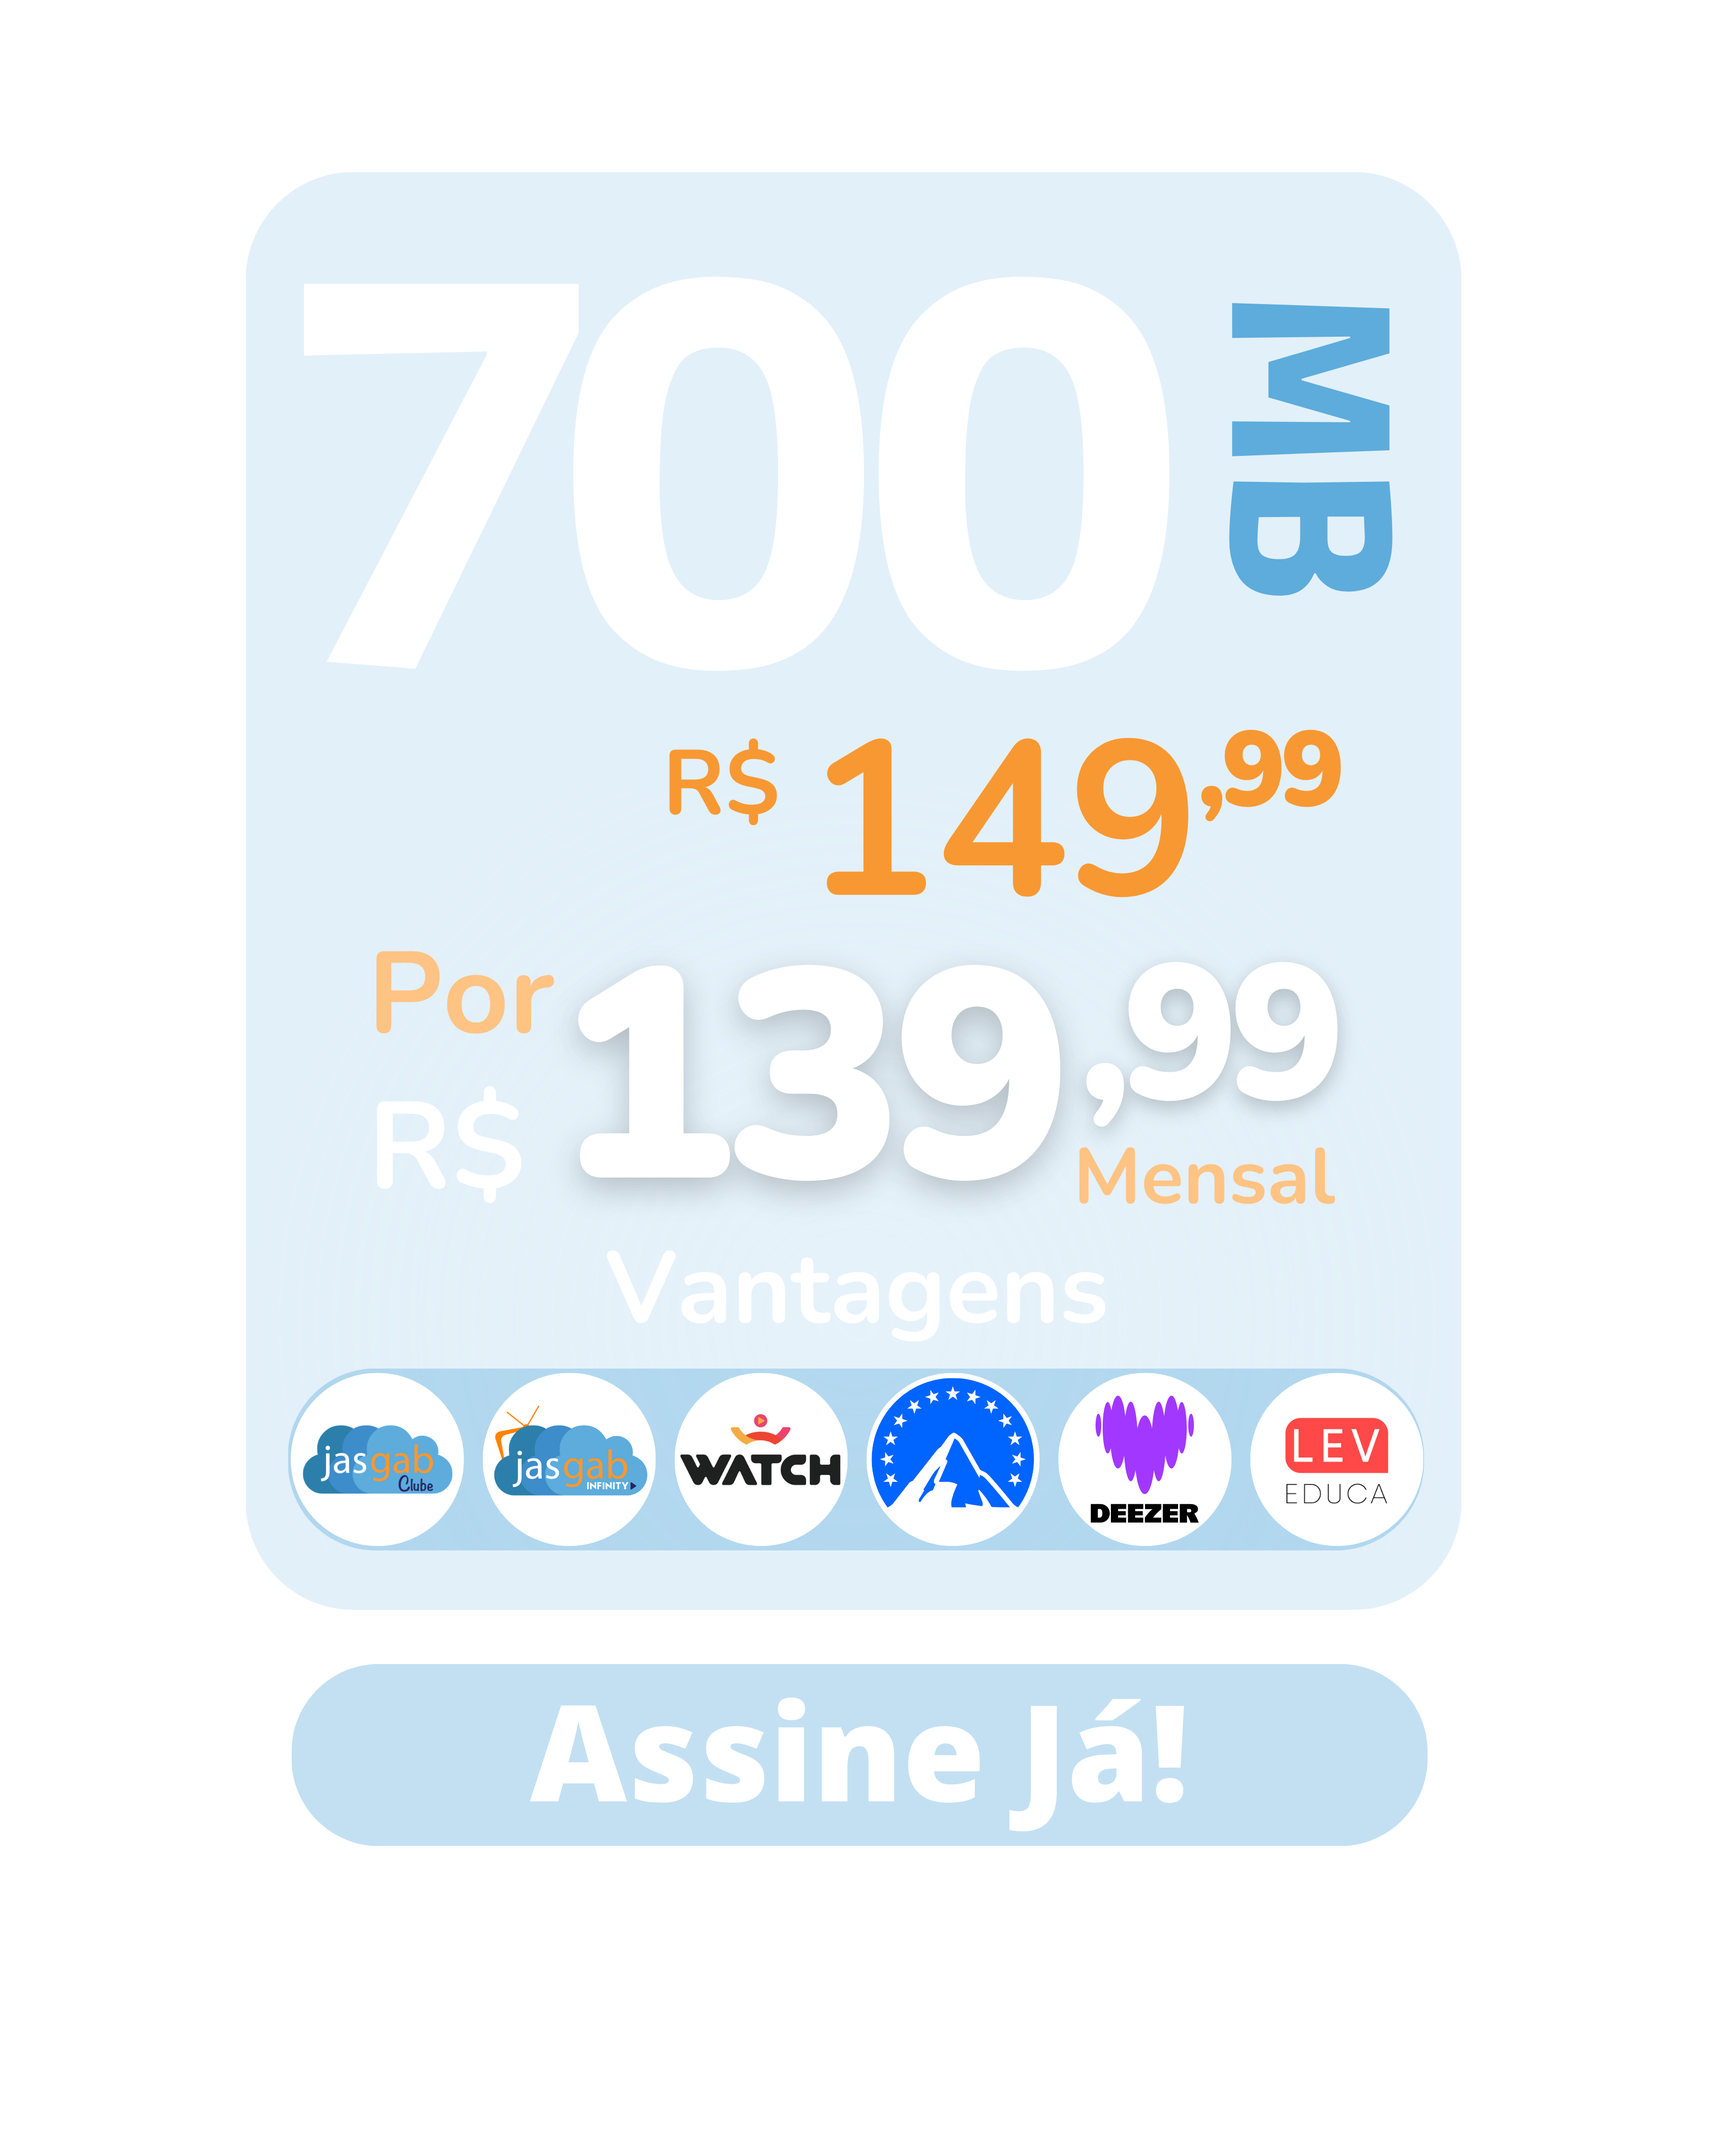
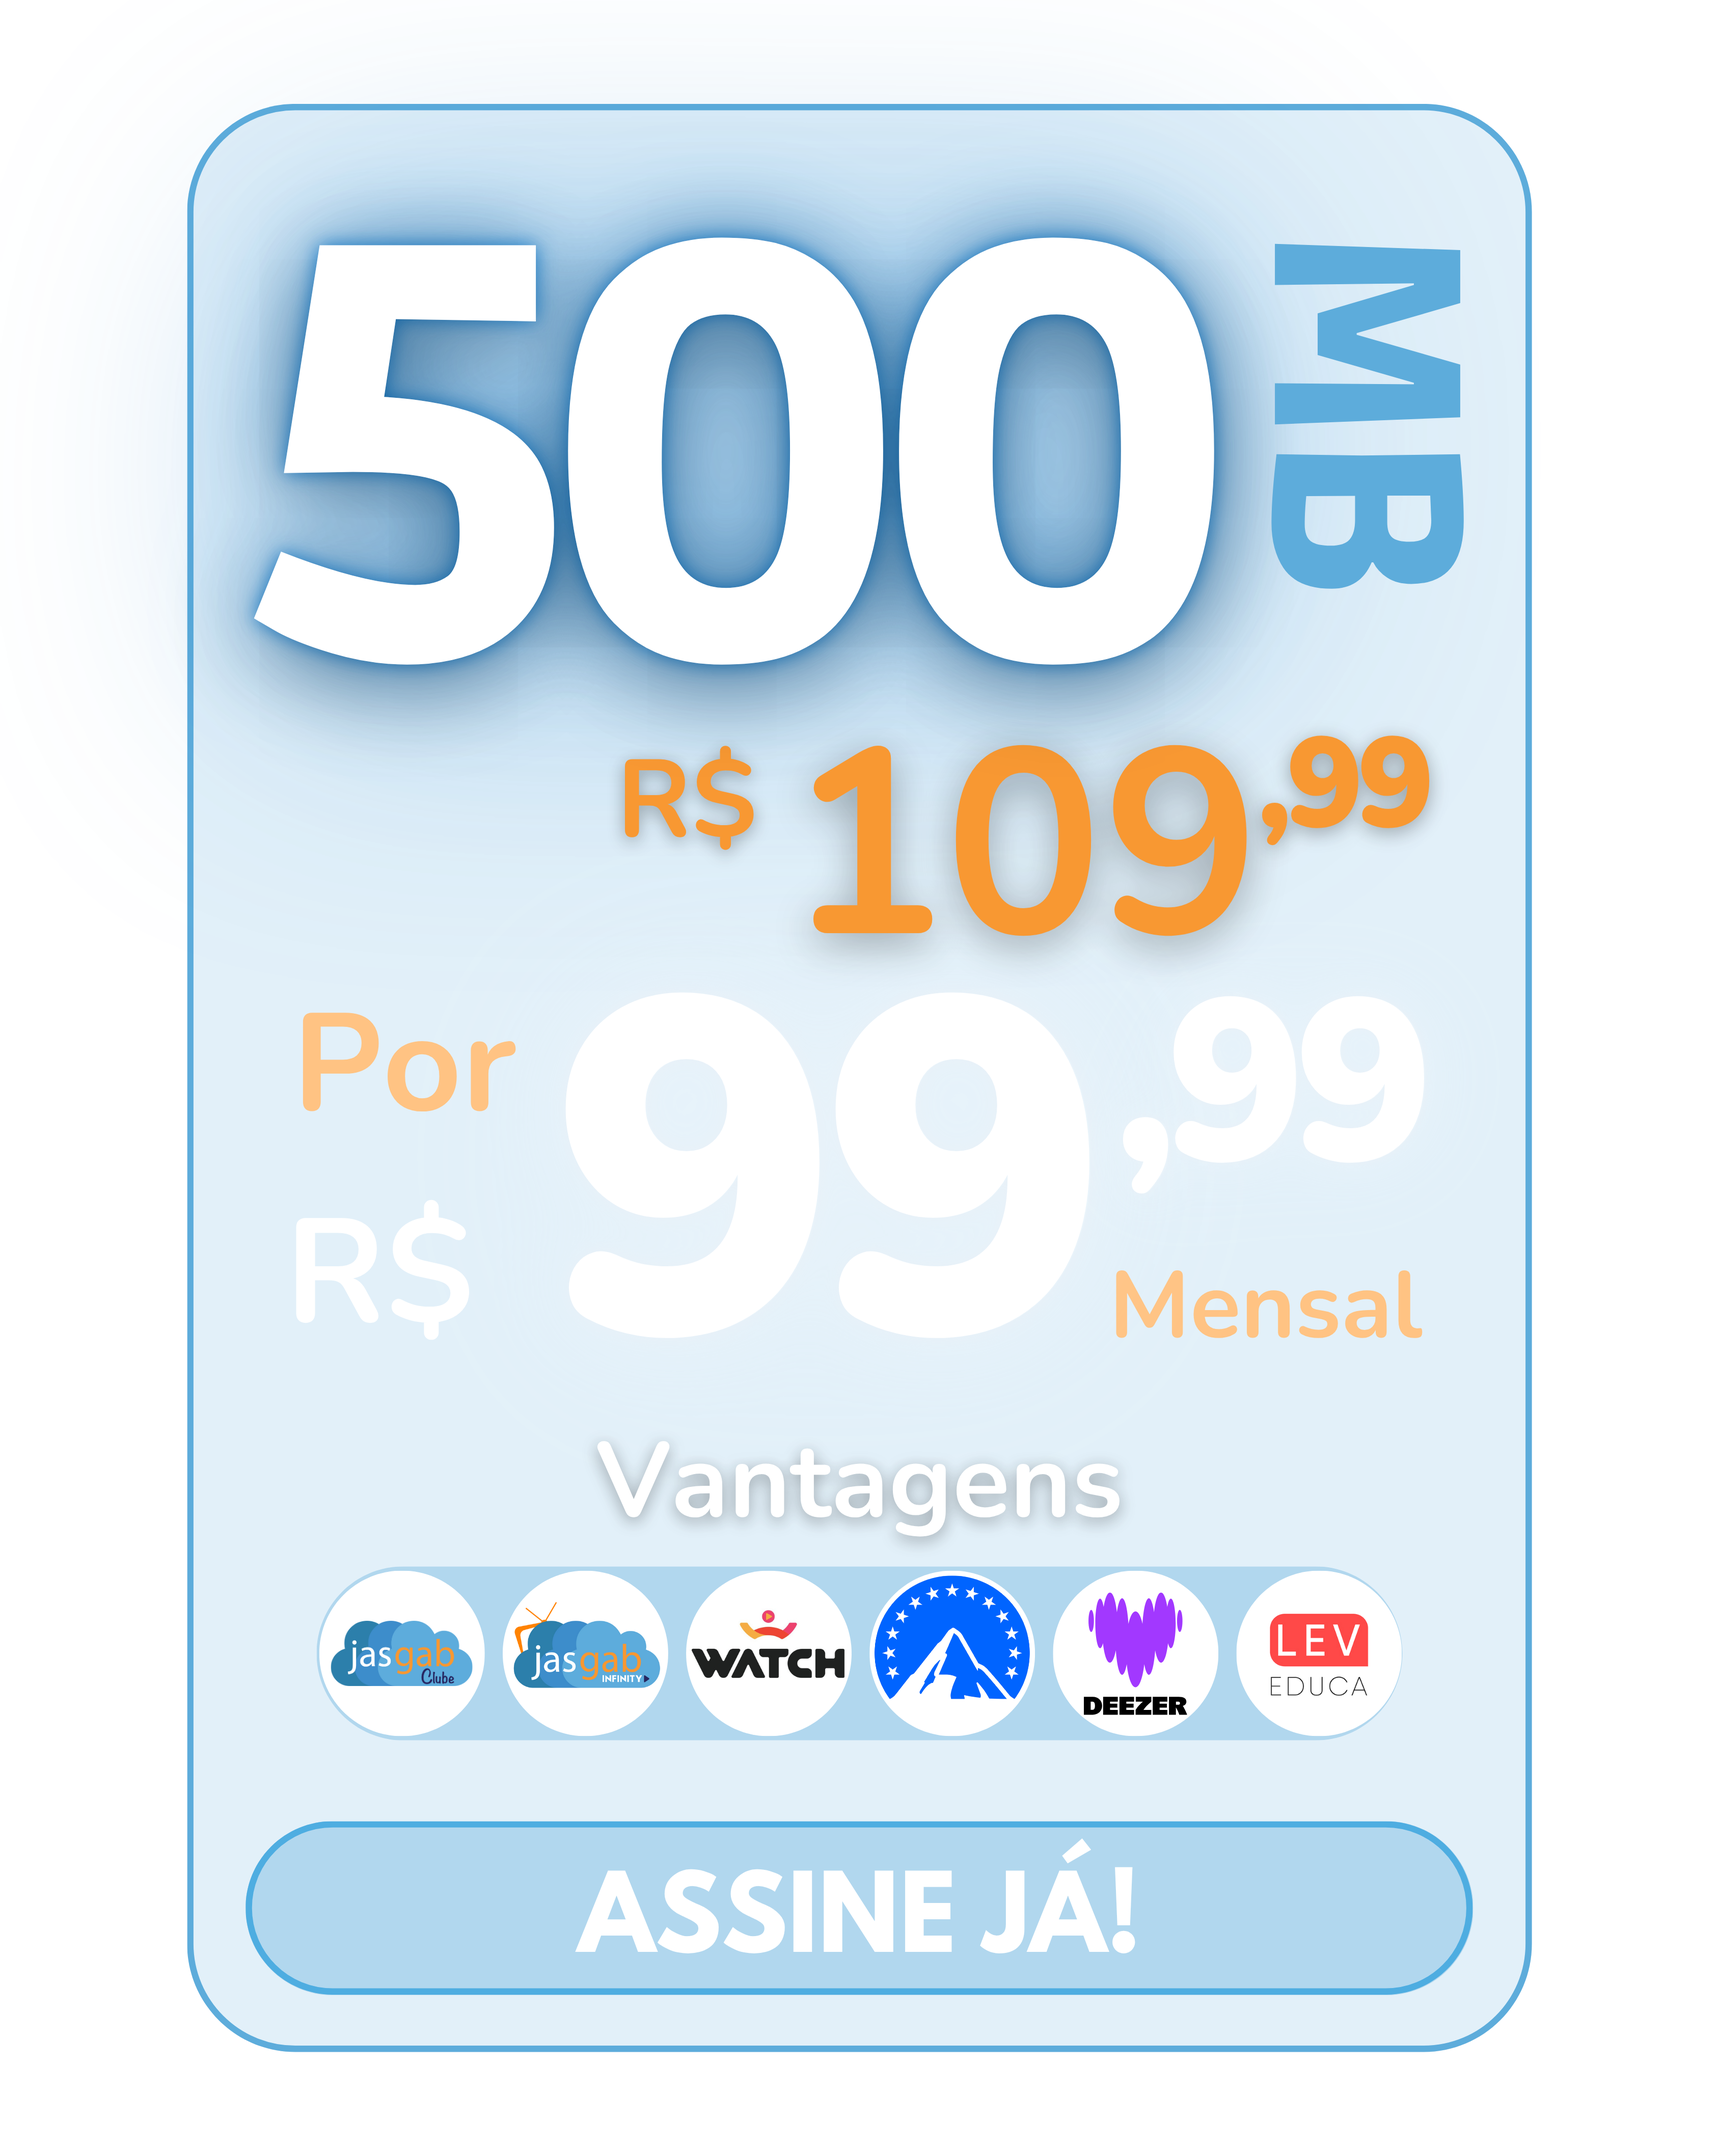
add botão de planos

diff --git a/painel/src/styles.css b/painel/src/styles.css
@@ -3,10 +3,11 @@
 
 /* Variáveis CSS para cores de fundo */
 :root {
+  --bg-gradient: linear-gradient(90deg, rgb(6, 7, 75) 0%, rgba(2, 49, 130, 1) 25%, rgba(2, 108, 200, 1) 50%, rgba(2, 49, 130, 1) 75%, rgb(6, 7, 75) 100%);  /* Degrade backgroud
   /* Cores principais */
-  --bg-primary-dark: #262660;        /* Cor escura principal - header, footer, seções */
-  --bg-primary-orange: #ff8300;      /* Cor laranja principal - botões, destaques */
-  --bg-orange-hover: #ffc373;        /* Hover do botão laranja */
+  /* --bg-primary-dark: #262660;         Cor escura principal - header, footer, seções */
+  --bg-primary-orange: #0acde7;      /* Cor laranja principal - botões, destaques */
+  --bg-orange-hover: #6de5f5;        /* Hover do botão laranja */
   
   /* Cores do WhatsApp */
   --bg-whatsapp-green: #25d366;      /* Cor verde do WhatsApp */
@@ -18,18 +19,19 @@
   
   /* Cores do clube de vantagens */
   --bg-cyan-primary: #0acde7;        /* Cor azul claro */
-  --bg-cyan-hover: #0097a7;          /* Hover do botão azul */
+  --bg-cyan-hover: #6de5f5;          /* Hover do botão azul */
   --bg-orange-light: #ffc373;        /* Cor laranja claro para gradiente */
 
   /* Variáveis CSS para cores de texto */
   --text-white: #ffffff;             /* Texto branco - principal em fundos escuros */
   --text-light-gray: #e0e0e0;        /* Texto cinza claro - secundário */
   --text-blue-gray: #b0bfc7;         /* Texto cinza azulado - subtítulos */
-  --text-orange: #ff8300;            /* Texto laranja - destaques e títulos */
+  --text-orange: #ffffff;            /* Texto laranja - destaques e títulos */
   --text-medium-gray: #a0a0a0;       /* Texto cinza médio - créditos */
   --text-secondary-gray: #cccccc;    /* Texto cinza claro - secundário no footer */
   --text-dark-gray: #333333;         /* Texto cinza escuro - principal em fundos claros */
   --text-description: #757575;       /* Texto cinza médio - descrições */
+
 }
 
 * , body {

diff --git a/painel/src/app/components/planos/planos.component.html b/painel/src/app/components/planos/planos.component.html
@@ -6,15 +6,18 @@
     <div class="planos-container">
         <!-- Plano 500 MEGA -->
         <div class="plano-card">
-            <img src="/assets/planos/12.png" alt="Plano 500 Mega" class="plano-img" />
+            <img src="/assets/planos/10.png" alt="Plano 500 Mega" class="plano-img" />
+            <a href="#"></a>
         </div>
         <!-- Plano 500+200 MEGA (Melhor Oferta) -->
         <div class="plano-card">
-            <img src="/assets/planos/12.png" alt="Plano 500+200 Mega" class="plano-img" />
+            <img src="/assets/planos/11.png" alt="Plano 500+200 Mega" class="plano-img" />
+            <a href="#"></a>
         </div>
         <!-- Plano 700 MEGA -->
         <div class="plano-card">
             <img src="/assets/planos/12.png" alt="Plano 700 Mega" class="plano-img" />
+            <a href="#"></a>
         </div>
 
     </div>

diff --git a/painel/src/app/components/planos/planos.component.css b/painel/src/app/components/planos/planos.component.css
@@ -1,5 +1,5 @@
 .planos-section {
-    background-color: var(--bg-primary-dark);
+    background: var(--bg-gradient);
     padding: 60px 80px;
     color: var(--text-white);
     font-family: 'Montserrat', sans-serif;
@@ -42,6 +42,23 @@
     width: 100%;
     height: 100%;
     object-fit: contain;
+    display: flex;
+    justify-content: space-around;
+    position: relative;
+}
+
+.plano-card a {
+    position: relative;
+    bottom: 59px;
+    left: 44px;
+    width: 71%;
+    height: 33px;
+    border-radius: 25px;
+    display: block;
+}
+
+.plano-card a:hover {
+    border: 1px solid #ffff;
 }
 
 .credit-note {

diff --git a/painel/src/app/components/clube-vantagens/clube-vantagens.component.css b/painel/src/app/components/clube-vantagens/clube-vantagens.component.css
@@ -1,5 +1,5 @@
 .clube-vantagens-section {
-    background: linear-gradient(90deg, var(--bg-primary-orange) 60%, var(--bg-orange-light) 100%);
+    background: var(--bg-gradient);
     color: var(--text-white);
     height: 450px;
     display: flex;

diff --git a/painel/src/app/components/top-bar/top-bar.component.html b/painel/src/app/components/top-bar/top-bar.component.html
@@ -4,7 +4,7 @@
       <app-logo></app-logo>
     </div>
     <div class="top-bar-center">
-      <p>2ª via, dúvidas ou suporte técnico &gt;&gt;</p>
+      
     </div>
     <div class="top-bar-actions">
       <a href="#" class="client-button">

diff --git a/painel/src/app/components/top-bar/top-bar.component.css b/painel/src/app/components/top-bar/top-bar.component.css
@@ -1,5 +1,5 @@
 .top-bar-container {
-    background-color: var(--bg-primary-dark);
+    background: var(--bg-gradient);
     color: var(--text-white);
     font-family: 'Montserrat', sans-serif;
     width: 100vw;

diff --git a/painel/src/app/components/footer/footer.component.css b/painel/src/app/components/footer/footer.component.css
@@ -4,6 +4,7 @@
     font-family: 'Montserrat', sans-serif;
     padding: 40px 60px 20px 60px;
     position: relative;
+    background: var(--bg-gradient);
 }
 
 .footer-container {

diff --git a/painel/src/app/components/logo/logo.component.html b/painel/src/app/components/logo/logo.component.html
@@ -1,3 +1,3 @@
 <div class="logo-bg">
-  <img src="assets/logo.jpg" alt="Logo Linnke" class="logo-img" />
+  <img src="assets/logo.png" alt="Logo Linnke" class="logo-img" />
 </div>

diff --git a/painel/src/app/components/banner-principal/banner-principal.component.css b/painel/src/app/components/banner-principal/banner-principal.component.css
@@ -6,7 +6,7 @@
   position: relative;
   width: 100%;
   aspect-ratio: 16/6;
-  background-color: var(--bg-primary-dark);
+  background: var(--bg-gradient);
 }
 
 .container-img {
